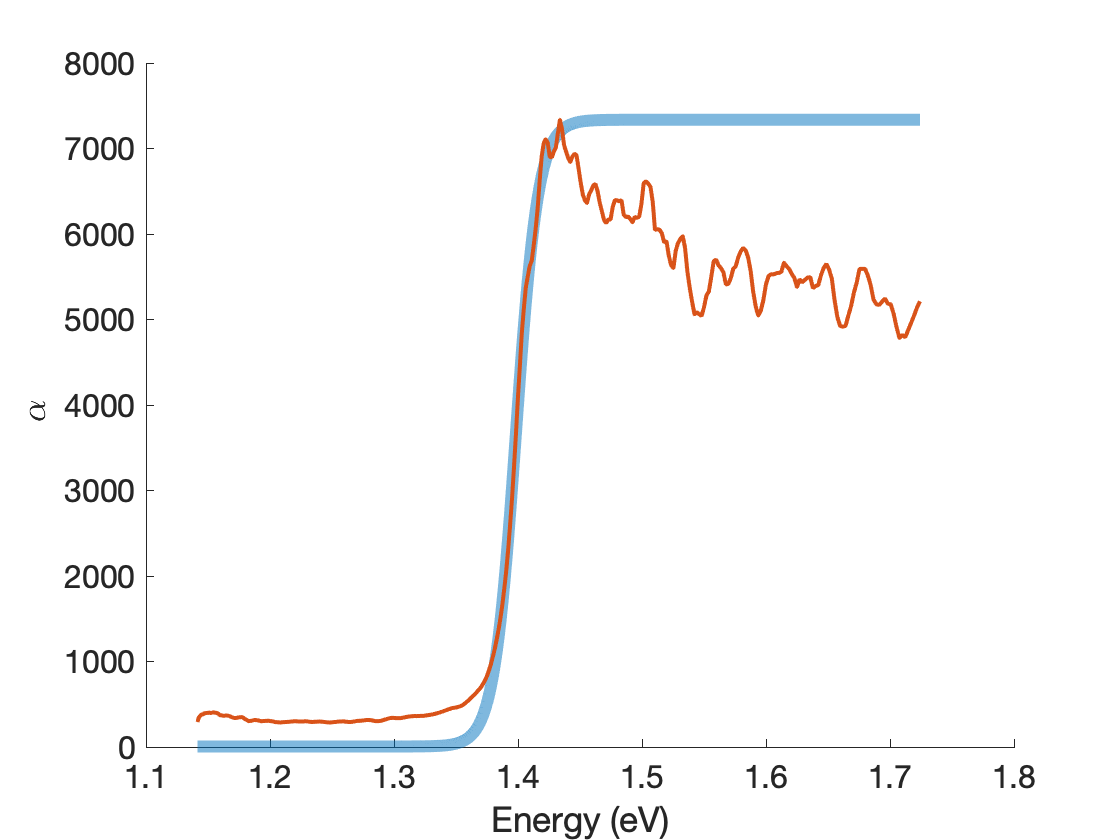
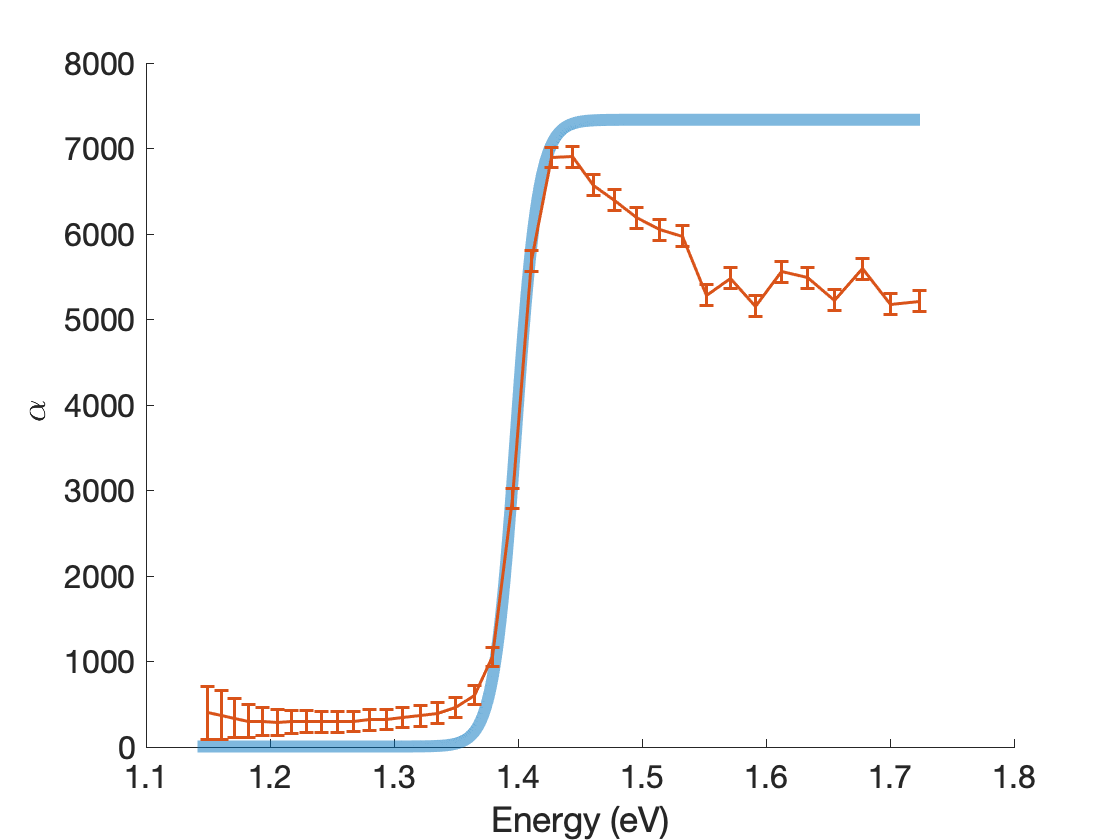
heil harry

diff --git a/MATLAB Files - J/Sigmoid.m b/MATLAB Files - J/Sigmoid.m
@@ -61,9 +61,11 @@ deltE = 0.009;
 asig = (amax + (amin - amax)./(1+exp((E-E0)./deltE)));
 asig = asig';
 
+errpl = err_alpha((l-nmaxrange):l,:);
+
 hold on
 p1 = plot(E,asig,'LineWidth',6);
-plot(E,ai,'LineWidth',2);
+errorbar(E(1:10:end),ai(1:10:end),errpl(1:10:end),'LineWidth',1.5);
 p1.Color(4) = 0.5;
 xlabel('Energy (eV)')
 ylabel('$\alpha$ ','Interpreter','latex')
@@ -74,3 +76,27 @@ set(gca,'FontSize',16)
 nboltzdir = 0.3;
 nboltzindir = 4.3;
 Eboltz = E0 - (nboltzdir*deltE);
+
+%%
+amaxerr = err_alpha(naimax);
+aminerr = err_alpha(naimin);
+
+amaxmax = amaxerr + amax;
+aminmin = amin - aminerr;
+
+ahalfmax = (amaxmax - aminmin)/2;
+aposmax = abs(ahalfmax-ai);
+aposminmax = min(aposmax);
+naposmax = find(aposminmax==aposmax);
+E0max = E(naposmax);
+
+amaxmin = amax - amaxerr;
+aminmin = amin + aminerr;
+
+ahalfmin = (amaxmin - aminmin)/2;
+aposmin = abs(ahalfmin-ai);
+aposminmin = min(aposmin);
+naposmin = find(aposminmin==aposmin);
+E0min = E(naposmin);
+
+E0_err = E0max - E0min;
